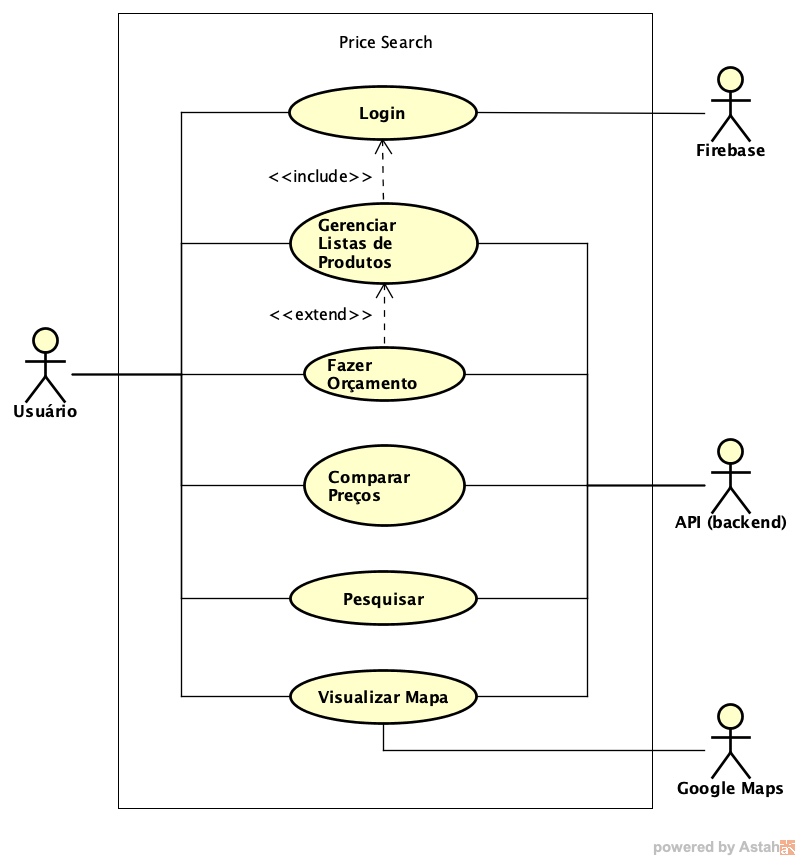
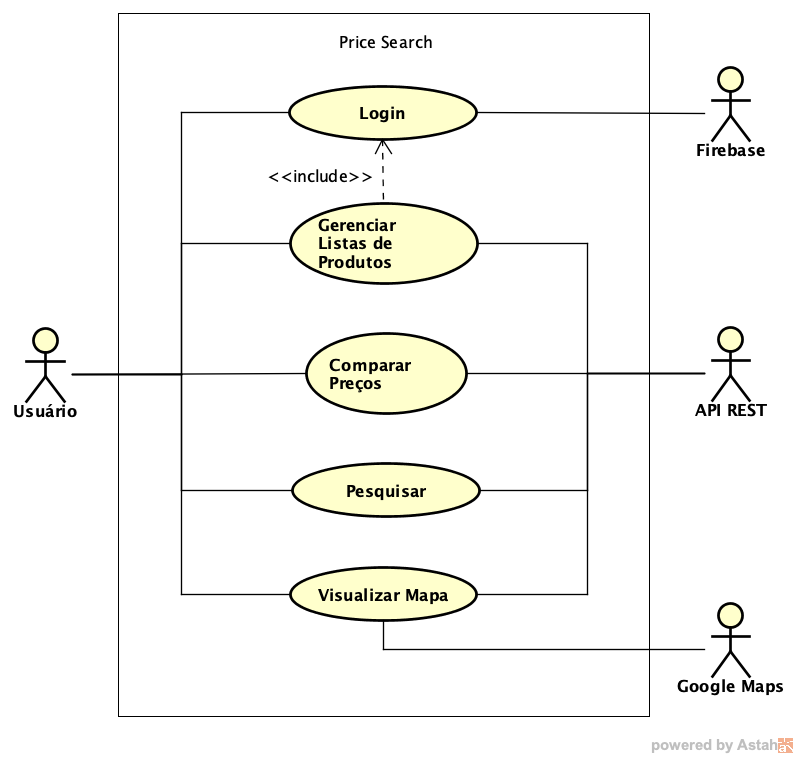
Updates from Overleaf

Changed region(s): [[0.0, 0.0303, 0.9925, 0.9406], [0.1504, 0.0, 0.812, 0.0607], [0.812, 0.971, 0.9925, 1.0]]

diff --git a/secoes/04-proposta.tex b/secoes/04-proposta.tex
@@ -23,19 +23,20 @@ Diferente dos aplicativos que necessitam que ele seja baixado de uma loja de apl
 
 \subsection{Diagrama de Blocos}
 
- O diagrama de blocos é uma representação gráfica de todas as tecnologias que foram utilizadas no desenvolvimento do projeto, e de como é a comunicação entre elas.
+ O diagrama de blocos (ilustrado na Figura  \ref{fig:diagrama_de_blocos}) é uma representação gráfica de todas as tecnologias que foram utilizadas no desenvolvimento do projeto, e de como é a comunicação entre elas.
  
 \begin{figure}[!htb]
 \centering
 \includegraphics[width=\linewidth]{figuras/diagrama_de_blocos.png}
 \caption{Diagrama de blocos da aplicação Price Search.}
+\label{fig:diagrama_de_blocos}
 \end{figure}
  
- No projeto foi utilizado PostgreSQL\footnote{Conforme explicado na seção \ref{ssec:Ambiente}} como banco de dados, NodeJs\footnote{Conforme explicado na seção \ref{ssec:NestJS}} e REST (do inglês, \textit{Representational State Transfer}\footnote{REST consiste em princípios ou regras que, quando seguidas, permitem a criação de um projeto com interfaces bem definidas. Disponível em: \url{https://becode.com.br/o-que-e-api-rest-e-restful/}}. A aplicação foi feita com Angular, e foram utilizados o Firebase para autenticação de usuário e o Google Maps Plataforma\footnote{Google Maps é um serviço de pesquisa e visualização de mapas e imagens de satélite da Terra gratuito na web. Disponível em: \url{https://www.google.com.br/}} para localização dos estabelecimentos, conforme explicado na seção \ref{sec:ferramentas}
+ No projeto foi utilizado PostgreSQL como banco de dados, NodeJs e REST (do inglês, \textit{Representational State Transfer}\footnote{REST consiste em princípios ou regras que, quando seguidas, permitem a criação de um projeto com interfaces bem definidas. Disponível em: \url{https://becode.com.br/o-que-e-api-rest-e-restful/}}. A aplicação foi feita com Angular, e foram utilizados o Firebase para autenticação de usuário e o Google Maps Plataforma\footnote{Google Maps é um serviço de pesquisa e visualização de mapas e imagens de satélite da Terra gratuito na \textit{web}. Disponível em: \url{https://www.google.com.br/}} para localização dos estabelecimentos, conforme explicado na seção \ref{sec:ferramentas}.
  
 \subsection{Modelo de Dados}
  
- O MER (modelo entidade relacionamento), explica como os objetos e características de um modelo de negócios se relacionam entre si. De forma geral o MER descreve como um banco de dados da aplicação é estruturado.
+ O MER (modelo entidade relacionamento), explica como os objetos e características de um modelo de negócios se relacionam entre si. De forma geral o MER descreve como um banco de dados da aplicação é estruturado, ilustrado na figura abaixo:
  
  
 \begin{figure}[!htb]
@@ -51,68 +52,61 @@ O diagrama de casos de uso da aplicação ilustra as ações de um usuário, que
 
 \begin{figure}[!htb]
 \centering
-\caption{Diagrama de Casos de Uso Price Search.}
 \includegraphics[width=\linewidth]{figuras/DiagramaCasosUsoPriceSearch.png}
-{\footnotesize Fonte: Elaborado pelo autor.}
+\caption{Diagrama de Casos de Uso do Price Search.}
 \end{figure}
 
 \subsubsection{Caso de Uso 01: \textit{Login}}
 
-O usuário inicia o login utilizando uma conta existente do Google, não sendo necessário preenchimento de nenhum tipo de dado. Feito isso, o assistente irá validar os dados do usuário e o login será efetuado. Nossa aplicação utilizará do ``token'' fornecido pela conta do Google, para que possa ser salvo em nosso banco de dados para a sincronização das informações do usuário.
+O usuário inicia o login (ilustrado na Figura  \ref{fig:login}) utilizando uma conta existente do Google, não sendo necessário preenchimento de nenhum tipo de dado. Feito isso, o assistente irá validar os dados do usuário e o login será efetuado. Nossa aplicação utilizará do ``token'' fornecido pela conta do Google, para que possa ser salvo em nosso banco de dados para a sincronização das informações do usuário.
 
-\begin{figure}[!htb]
+\begin{figure}[H]
 \centering
-\caption{Imagem de exemplo.}
 \includegraphics[width=\linewidth]{figuras/tela-login.png}
+\caption{Ilustração do Caso de Uso 01: \textit{Login}.}
+\label{fig:login}
 \end{figure}
 
 \subsubsection{Caso de Uso 02: Pesquisar}
 
-A barra de pesquisa se encontra no topo da página, junto dela também existe um botão de menu para mostrar todas as abas do aplicativo. A pesquisa será feita através do nome do produto, então o usuário poderá pesquisar por qualquer item, desde que o mesmo esteja no banco de dados, e o sistema irá retornar todos os itens de acordo com a pesquisa feita.
+A barra de pesquisa se encontra no topo da página (ilustrado na Figura  \ref{fig:menu}), junto dela também existe um botão de menu para mostrar todas as abas do aplicativo. A pesquisa será feita através do nome do produto, então o usuário poderá pesquisar por qualquer item, desde que o mesmo esteja no banco de dados, e o sistema irá retornar todos os itens de acordo com a pesquisa feita.
 
-\begin{figure}[!htb]
+\begin{figure}[H]
 \centering
-\caption{Imagem de exemplo.}
 \includegraphics[width=\linewidth]{figuras/tela-menu.png}
+\caption{Ilustração do Caso de Uso 02: Pesquisar.}
+\label{fig:menu}
 \end{figure}
 
 \subsubsection{Caso de Uso 03: Gerenciar Lista de Compra}
 
-O usuário poderá criar várias listas de compra como se fosse um carrinho de compras. Ao criar uma lista, o usuário poderá escolher um nome para ela; bem como escolher quais itens serão adicionados futuramente, e removê-los a qualquer momento; ou mesmo renomear a lista ou exclui-lá.
+O usuário poderá criar várias listas de compra como se fosse um carrinho de compras (ilustrado na Figura  \ref{fig:lista}). Ao criar uma lista, o usuário poderá escolher um nome para ela; bem como escolher quais itens serão adicionados futuramente, e removê-los a qualquer momento; ou mesmo renomear a lista ou exclui-lá.
 
-\begin{figure}[!htb]
+\begin{figure}[H]
 \centering
-\caption{Tela onde mostram todos os produtos disponíveis.}
-\includegraphics[width=\linewidth]{figuras/tela_lista_produtos.png}
+\includegraphics[width=\linewidth]{figuras/tela_lista_personalizada.png}
+\caption{Ilustração do Caso de Uso 03: Gerenciar Lista de Compra.}
+\label{fig:lista}
 \end{figure}
 
 \subsubsection{Caso de Uso 04: Comparar Preços}
 
-O usuário poderá comparar preços de um produto em diferentes estabelecimentos, e através do aplicativo descobrir em qual estabelecimento ele pode encontrar o melhor preço do produto que deseja.
+O usuário poderá comparar preços de um produto em diferentes estabelecimentos (ilustrado na Figura  \ref{fig:comparar}), e através do aplicativo descobrir em qual estabelecimento ele pode encontrar o melhor preço do produto que deseja.
 
-\begin{figure}[!htb]
+\begin{figure}[H]
 \centering
-\caption{Imagem de exemplo.}
 \includegraphics[width=\linewidth]{figuras/tela-comparar.png}
+\caption{Ilustração do Caso de Uso 04: Comparar Preços.}
+\label{fig:comparar}
 \end{figure}
 
-\subsubsection{Caso de Uso 05: Fazer Orçamento}
+\subsubsection{Caso de Uso 05: Visualizar Mapa}
 
-O usuário poderá criar listas de compras, e ao fazer isso ele poderá realizar o orçamento, e descobrir em qual estabelecimento a compra ficará mais barata.
+O usuário terá acesso à um mapa que contém a localização de todos os estabelecimentos locais cadastrados (Ilustrado na Figura \ref{fig:mapa}). Ao clicar nos estabelecimentos mostrados no mapa, irá ser fornecido informações sobre ele, como nome e endereço.
 
-\begin{figure}[!htb]
+\begin{figure}[H]
 \centering
-\caption{Imagem de exemplo.}
-\includegraphics[width=\linewidth]{figuras/placeholder.jpg}
-\end{figure}
-
-\subsubsection{Caso de Uso 06: Visualizar Mapa}
-
-O usuário terá acesso à um mapa que contém a localização de todos os estabelecimentos locais cadastrados. Ao clicar nos estabelecimentos mostrados no mapa, irá ser fornecido informações sobre ele, como nome e endereço.
-
-
-\begin{figure}[!htb]
-\centering
-\caption{Imagem de exemplo.}
 \includegraphics[width=\linewidth]{figuras/tela_mapa.png}
+\caption{Ilustração do Caso de Uso 06: Visualizar Mapa.}
+\label{fig:mapa}
 \end{figure}

diff --git a/secoes/03-trabalhos-relacionados.tex b/secoes/03-trabalhos-relacionados.tex
@@ -3,10 +3,10 @@
 
 No mundo cotidiano, vê-se a grande disponibilidade e ofertas de produtos em vários tipos de estabelecimentos, sejam eles: lojas, mercados, farmácias e pequenas lojas que vendem os mais diversos tipos de produtos. Uma ferramenta que pode ser usada para verificar quais são as melhores ofertas de produtos são de sites de busca.
 
-Um dos motores de busca mais usado no Brasil, é o Buscapé\footnote{Portal de serviços gratuitos de busca de produtos e pesquisa de preços. Disponível em \url{https://www.buscape.com.br/}.}, fundado em junho de 1999, empresa que foi fundada com aproximadamente R\$ 4.800,00, hoje possui um faturamento anual de R\$ 300.000.000,00 \cite{EmídiaFelipe2017BUSCAPÉ}. Uma das ideias iniciais para a aplicação, foi quando Rodrigo (um dos criadores do Buscapé), estava procurando uma impressora para comprar na internet, então ele entrou em alguns \textit{sites} de busca da época e encontrou de tudo, menos o preço da impressora; então foi ai que decidiram explorar a ideia de criar um \textit{site} que ajudasse a responder questões típicas de decisões de compra \cite{Arruda2011Buscapé}. O Buscapé passou por várias transformações ao longo do tempo em termos de negócio, e hoje, o site recebe mensalmente 60 milhões de visitas, compara mais de 25 milhões de produtos vendidos por 8.500 lojas, segundo dados da empresa que hoje é líder em comparação de preços no Brasil \cite{HELOÍSA2017Startups}.
+Um dos motores de busca mais usado no Brasil, é o Buscapé\footnote{Portal de serviços gratuitos de busca de produtos e pesquisa de preços. Disponível em \url{https://www.buscape.com.br/}.}, fundado em junho de 1999, empresa que foi fundada com aproximadamente R\$ 4.800,00, hoje possui um faturamento anual de R\$ 300.000.000,00 \cite{EmídiaFelipe2017BUSCAPÉ}. Uma das ideias iniciais para a aplicação, foi quando Rodrigo (um dos criadores do Buscapé), estava procurando uma impressora para comprar na internet, então ele entrou em alguns \textit{sites} de busca da época e encontrou de tudo, menos o preço da impressora; então foi ai que decidiram explorar a ideia de criar um \textit{site} que ajudasse a responder questões típicas de decisões de compra \cite{Arruda2011Buscapé}. O Buscapé passou por várias transformações ao longo do tempo em termos de negócio, e hoje, o site recebe mensalmente 60 milhões de visitas, compara mais de 25 milhões de produtos vendidos por 8.500 lojas, segundo dados da empresa que hoje é líder em comparação de preços no Brasil \cite{Heloísa2017Startups}.
 
 Outra ferramenta também conhecida é o Google Shopping\footnote{É um serviço Google para pesquisa e comparação de produtos em lojas \textit{online}. Disponível em \url{https://www.google.com/shopping}} que foi criado pelo Craig Nevill-Manning. Inicialmente a ferramenta realizava pagamentos para os donos de lojas através do Google Ads\footnote{É o principal serviço de publicidade da Google. Disponível em: \url{https://ads.google.com/intl/pt_BR/home/}}, porém em 2012 foi feita uma mudança na ferramenta para que as lojas pagassem ao Google para aparecer no Google Shopping. Com isso, o Google passou a divulgar somente aquelas lojas que pagam para o serviço, e aquelas que não mais o pagavam, não tiveram suas informações divulgadas no site.
 
-Com o passar do tempo, da evolução tecnológica e com novas necessidades dos consumidores, surgiram varias ramificações deste tipo de serviço: o de comparar preços. Existem vários setores diferentes, como por exemplo o site Trivago\footnote{Motor de busca e comparador de preço de hotéis e periféricos em geral. Disponível em: \url{https://www.trivago.com.br/}}, que faz a comparação de preços de hotéis, buscando o valor de diárias de um mesmo hotel em diferentes \textit{sites}, e mostrando a diferença de valor para o usuário poder escolher aquele que oferece o menor preço.
+Com o passar do tempo, da evolução tecnológica e com novas necessidades dos consumidores, surgiram varias ramificações deste tipo de serviço: o de comparar preços. Existem vários setores diferentes, como por exemplo o site Trivago\footnote{Motor de busca e comparador de preço de hotéis e periféricos em geral. Disponível em: \url{https://www.trivago.com.br/}.}, que faz a comparação de preços de hotéis, buscando o valor de diárias de um mesmo hotel em diferentes \textit{sites}, e mostrando a diferença de valor para o usuário poder escolher aquele que oferece o menor preço.
 
 Com a análise feita em diversos aplicativos diferentes, podemos ver que cada um possui alguma característica que difere um do outro, podendo ser o tipo de produto ou também a necessidade. Com isso, a aplicação proposta, denominado Price Search também traz uma diferença dos demais, que é a busca de produtos para estabelecimentos locais, ou seja, se a pessoa pesquisa por exemplo, um saco de arroz, o aplicativo irá retornar todos os estabelecimentos da sua cidade que estão cadastrados no aplicativo com os devidos preços. Sendo assim, os usuários conseguirão saber em qual estabelecimento sua compra saíra com um menor custo sem sair de casa.
